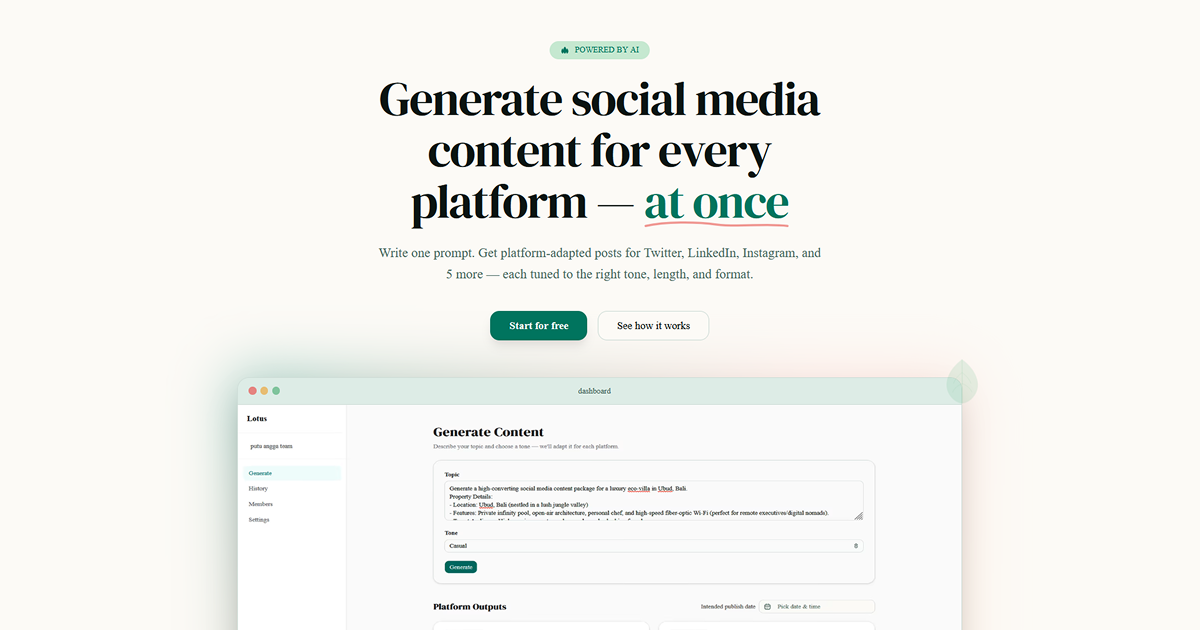
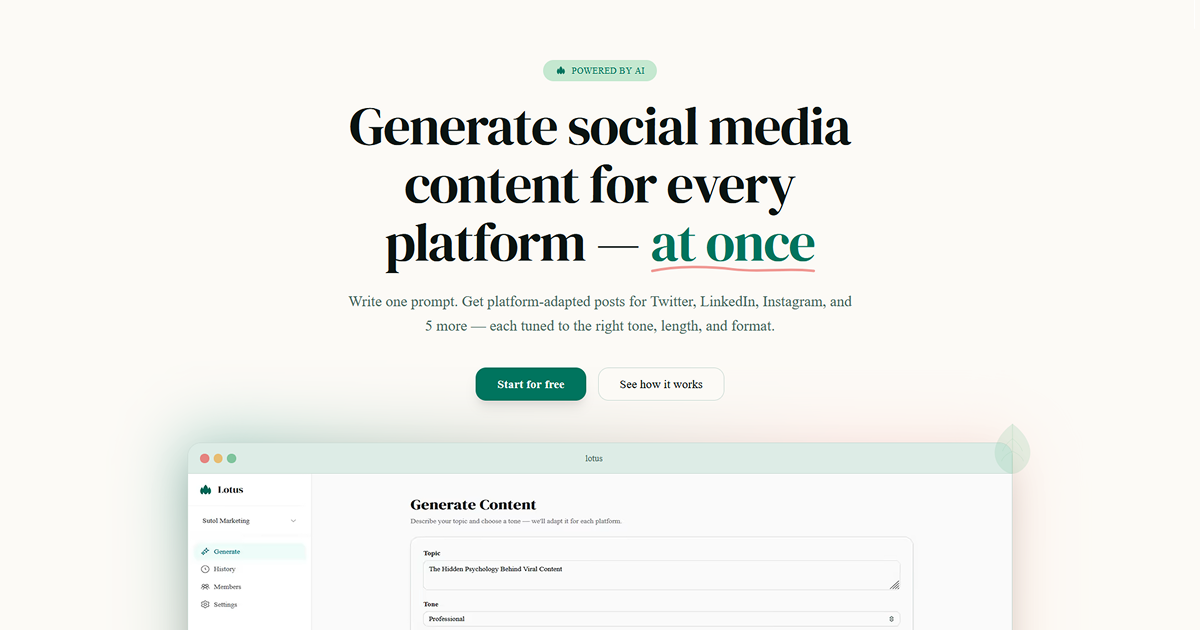
style(images): Update images

diff --git a/src/components/bento-feature-grid.tsx b/src/components/bento-feature-grid.tsx
@@ -14,7 +14,7 @@ const cards = [
     label: "Product screenshot — multi-platform dashboard",
     span: "md:col-span-7",
     imageHeight: 280,
-    image: "images/Multi-Platform Generation.avif",
+    image: "images/Lotus Outputs Snapshot.avif",
   },
   {
     title: "Brand Settings",
@@ -25,7 +25,7 @@ const cards = [
     label: "Product screenshot — brand settings",
     span: "md:col-span-5",
     imageHeight: 220,
-    image: "images/Brand Settings.avif",
+    image: "images/Lotus Brand Settings Snapshot.avif",
   },
   {
     title: "Team Collaboration",
@@ -36,7 +36,7 @@ const cards = [
     label: "Product screenshot — team workspace",
     span: "md:col-span-5",
     imageHeight: 220,
-    image: "images/Team Collaboration.avif",
+    image: "images/Lotus Team Members Snapshot.avif",
   },
   {
     title: "Generation History",
@@ -47,7 +47,7 @@ const cards = [
     label: "Product screenshot — generation history",
     span: "md:col-span-7",
     imageHeight: 220,
-    image: "images/Generation History.avif",
+    image: "images/Lotus History Snapshot.avif",
   },
 ];
 

diff --git a/src/components/how-it-works-stepper.tsx b/src/components/how-it-works-stepper.tsx
@@ -11,7 +11,7 @@ const steps = [
       "Describe your topic and choose a tone. One input is all it takes.",
     accent: "var(--primary)",
     accentSoft: "var(--secondary)",
-    image: "/images/Write Prompt.avif",
+    image: "/images/Lotus Prompt Snapshot.avif",
     alt: "Product screenshot — prompt input",
   },
   {
@@ -21,7 +21,7 @@ const steps = [
       "Your message is reshaped for every platform's tone, length, and format conventions.",
     accent: "var(--coral)",
     accentSoft: "var(--coral-soft)",
-    image: "/images/platforms output.avif",
+    image: "/images/Lotus Outputs Snapshot.avif",
     alt: "Product screenshot — AI generation",
   },
   {
@@ -31,7 +31,7 @@ const steps = [
       "Review each output, make edits, and record your intended publish date.",
     accent: "var(--amber)",
     accentSoft: "var(--amber-soft)",
-    image: "/images/Set Calendar.avif",
+    image: "/images/Lotus Publish Date Snapshot.avif",
     alt: "Product screenshot — output review",
   },
 ];

diff --git a/src/components/hero-section.tsx b/src/components/hero-section.tsx
@@ -415,15 +415,16 @@ export function HeroSection() {
                   className="flex-1 text-center text-xs font-medium"
                   style={{ color: "var(--muted-foreground)" }}
                 >
-                  dashboard
+                  lotus
                 </div>
                 <div className="w-16" />
               </div>
               <img
-                src={"images/ai content generator dashboard.avif"}
+                src={"images/Lotus Hero Snapshot.avif"}
                 className="w-full aspect-[16/9] min-h-[300px] sm:min-h-[400px] lg:min-h-[520px]"
                 width={1100}
                 height={620}
+                alt="Lotus Hero Snapshot"
               />
             </div>
 

diff --git a/src/components/feature-showcase.tsx b/src/components/feature-showcase.tsx
@@ -141,7 +141,7 @@ function BrowserFrame({ children }: { children: React.ReactNode }) {
         </div>
         <div className="flex-1 flex justify-center">
           <div className="px-4 py-1 rounded-md bg-muted/60 text-xs text-muted-foreground/60 max-w-xs w-full text-center">
-            dashboard
+            lotus
           </div>
         </div>
         <div className="w-9" />
@@ -255,7 +255,7 @@ export function FeatureShowcase() {
           <motion.div variants={imageItemVariants}>
             <BrowserFrame>
               <img
-                src={"/images/prompt and outputs.avif"}
+                src={"/images/Lotus Generate Snapshot.avif"}
                 alt="Product screenshot — AI content generation dashboard"
                 className="w-full aspect-16/10"
               />

diff --git a/src/components/comparison-section.tsx b/src/components/comparison-section.tsx
@@ -245,7 +245,7 @@ export function ComparisonSection() {
               <img
                 alt="Lotus dashboard — all platforms"
                 className="rounded-xl w-full aspect-[16/9]"
-                src={"/images/prompt and outputs.avif"}
+                src={"/images/Lotus Generate Snapshot.avif"}
               />
 
               <div className="mt-4 flex items-center gap-3">

diff --git a/src/pages/_app.tsx b/src/pages/_app.tsx
@@ -9,7 +9,7 @@ import { createSyncStoragePersister } from "@tanstack/query-sync-storage-persist
 import { DM_Serif_Display, Plus_Jakarta_Sans } from "next/font/google";
 import { GoogleTagManager } from "@next/third-parties/google";
 
-const APP_TITLE = "Lotus — AI Content Generator for Social Media";
+const APP_TITLE = "Lotus | AI Content Generator for Social Media";
 const APP_DESCRIPTION =
   "Generate platform-adapted social media content from a single prompt. AI-powered posts for Instagram, TikTok, LinkedIn, Twitter, and more.";
 const OG_IMAGE = `${process.env.NEXT_PUBLIC_APP_URL}/opengraph-image.png`;

diff --git a/README.md b/README.md
@@ -6,13 +6,15 @@ A fullstack SaaS application that generates platform-adapted social media conten
 
 **[Live Demo →](https://lotus.putuangga.com/)**
 
-![Lotus Dashboard](/public/images/ai%20content%20generator%20dashboard.avif) 
+![Lotus Landing Page](/public/images/Lotus%20Hero%20Snapshot.avif)
 
 ---
 
 ## Features
 
 ### Content Generation
+
+![Lotus Content Generation](/public/images/lotus%20Generate%20Snapshot.avif)
 
 - **Multi-platform generation** — produces posts for Twitter/X, LinkedIn, Instagram, Facebook, TikTok, YouTube, Threads, and Pinterest from a single topic
 - **Real-time streaming** — results stream back via Server-Sent Events as each platform completes, not all-at-once
@@ -22,17 +24,23 @@ A fullstack SaaS application that generates platform-adapted social media conten
 
 ### Team Collaboration
 
+![Lotus Team Member](/public/images/lotus%20Team%20Members%20Snapshot.avif)
+
 - **Organization-based teams** — create a team, invite members via email, manage roles (Owner, Admin, Member)
 - **Shared brand settings** — team-level brand voice, default tone, active platforms, and AI model selection
 - **Slug-based workspaces** — each team gets a URL-friendly slug (e.g., `/acme-corp`)
 
 ### Authentication & Security
 
+![Lotus Auth OTP](/public/images/lotus%20auth%20Otp%20snapshot.avif)
+
 - **Email verification** via 6-digit OTP with rate limiting, cooldown, and expiry
 - **Disposable email blocking** — prevents spam registrations with a domain blocklist
 - **Role-based access** — admin-only actions for settings, member management, and invitations
 
 ### Blog (Strapi CMS)
+
+![Lotus Blog](/public/images/lotus%20blog%20snapshot.avif)
 
 - **Headless CMS** — blog powered by Strapi v5 with Articles and Categories content types
 - **ISR with 60s revalidation** — statically generated listing and detail pages, revalidated incrementally
@@ -43,6 +51,8 @@ A fullstack SaaS application that generates platform-adapted social media conten
 
 ### AI Credit System
 
+![Lotus AI Credits System](/public/images/lotus%20ai%20credits%20snapshot.avif)
+
 - **Pay-per-use credits** — 1 credit = 1 platform output (generating across 5 platforms costs 5 credits)
 - **25 free starter credits** — automatically granted when a team is created
 - **FIFO consumption** — oldest credits are used first across batches
@@ -52,6 +62,8 @@ A fullstack SaaS application that generates platform-adapted social media conten
 - **Transaction history** — full audit trail with balance-before/balance-after for every event (top-ups, generations, regenerations, batch expirations)
 
 ### Billing & Payments (Stripe)
+
+![Lotus Auth OTP](/public/images/lotus%20stripe%20snapshot.avif)
 
 - **One-time payments** via Stripe Checkout (not subscriptions) — users buy credit packages as needed
 - **Stripe Checkout Sessions** — server-side session creation with team metadata for reconciliation
@@ -81,31 +93,31 @@ A fullstack SaaS application that generates platform-adapted social media conten
 
 ## Tech Stack
 
-| Category | Technology |
-|---|---|
-| **Framework** | Next.js 16 (Pages Router), React 19, TypeScript |
-| **Styling** | Tailwind CSS v4, shadcn/ui (radix-nova), HugeIcons, Motion (Framer Motion) |
-| **CMS** | Strapi v5 (Headless CMS) — blog articles and categories |
-| **Auth** | Better Auth with organization plugin — custom OTP flow on top |
-| **Database** | Neon (serverless Postgres) |
-| **ORM** | Drizzle ORM (PostgreSQL) |
-| **AI Provider** | OpenRouter — Google Gemini, OpenAI GPT-4.1, Anthropic Claude (model configurable per team) |
-| **Email** | Resend + React Email (OTP codes, team invitations) |
-| **Payments** | Stripe (Checkout Sessions, Webhooks) |
-| **State Management** | TanStack Query v5 (known as React Query) with localStorage persistence |
-| **Notifications** | Sonner |
-| **Testing** | Vitest + Testing Library + jsdom |
-| **Deployment** | Vercel |
+| Category             | Technology                                                                                 |
+| -------------------- | ------------------------------------------------------------------------------------------ |
+| **Framework**        | Next.js 16 (Pages Router), React 19, TypeScript                                            |
+| **Styling**          | Tailwind CSS v4, shadcn/ui (radix-nova), HugeIcons, Motion (Framer Motion)                 |
+| **CMS**              | Strapi v5 (Headless CMS) — blog articles and categories                                    |
+| **Auth**             | Better Auth with organization plugin — custom OTP flow on top                              |
+| **Database**         | Neon (serverless Postgres)                                                                 |
+| **ORM**              | Drizzle ORM (PostgreSQL)                                                                   |
+| **AI Provider**      | OpenRouter — Google Gemini, OpenAI GPT-4.1, Anthropic Claude (model configurable per team) |
+| **Email**            | Resend + React Email (OTP codes, team invitations)                                         |
+| **Payments**         | Stripe (Checkout Sessions, Webhooks)                                                       |
+| **State Management** | TanStack Query v5 (known as React Query) with localStorage persistence                     |
+| **Notifications**    | Sonner                                                                                     |
+| **Testing**          | Vitest + Testing Library + jsdom                                                           |
+| **Deployment**       | Vercel                                                                                     |
 
 ---
 
 ## Supported AI Models
 
-| Provider | Model |
-|---|---|
-| Google | Gemini 2.5 Flash *(default)*, Gemini 2.0 Flash |
-| OpenAI | GPT-4.1 Mini, GPT-4.1 Nano |
-| Anthropic | Claude 3.5 Haiku, Claude 3 Haiku |
+| Provider  | Model                                          |
+| --------- | ---------------------------------------------- |
+| Google    | Gemini 2.5 Flash _(default)_, Gemini 2.0 Flash |
+| OpenAI    | GPT-4.1 Mini, GPT-4.1 Nano                     |
+| Anthropic | Claude 3.5 Haiku, Claude 3 Haiku               |
 
 Teams can switch models from Brand Settings without any code changes.
 
@@ -113,11 +125,11 @@ Teams can switch models from Brand Settings without any code changes.
 
 ## Credit Pricing
 
-| Package | Credits | Price | Per-Credit Cost |
-|---------|---------|-------|-----------------|
-| **Starter** | 100 | $5 | $0.050 |
-| **Growth** | 500 | $20 | $0.040 |
-| **Pro** | 2,000 | $60 | $0.030 |
+| Package     | Credits | Price | Per-Credit Cost |
+| ----------- | ------- | ----- | --------------- |
+| **Starter** | 100     | $5    | $0.050          |
+| **Growth**  | 500     | $20   | $0.040          |
+| **Pro**     | 2,000   | $60   | $0.030          |
 
 All teams start with 25 free credits. Credits expire 12 months from the batch creation date.
 
@@ -129,21 +141,21 @@ See [SETUP-GUIDELINES.md](SETUP-GUIDELINES.md) for local development setup, envi
 
 ### Blog Environment Variables
 
-| Variable | Description |
-|---|---|
-| `STRAPI_URL` | Base URL of the Strapi v5 instance (server-side). Default: `http://localhost:1337` |
-| `STRAPI_API_TOKEN` | Read-only API token for Strapi authentication (server-side) |
-| `NEXT_PUBLIC_STRAPI_URL` | Public URL for resolving cover image paths in the browser |
+| Variable                 | Description                                                                        |
+| ------------------------ | ---------------------------------------------------------------------------------- |
+| `STRAPI_URL`             | Base URL of the Strapi v5 instance (server-side). Default: `http://localhost:1337` |
+| `STRAPI_API_TOKEN`       | Read-only API token for Strapi authentication (server-side)                        |
+| `NEXT_PUBLIC_STRAPI_URL` | Public URL for resolving cover image paths in the browser                          |
 
 ### Stripe & Credit System Environment Variables
 
-| Variable | Description |
-|---|---|
-| `STRIPE_SECRET_KEY` | Stripe API secret key (server-side) |
+| Variable                | Description                                                |
+| ----------------------- | ---------------------------------------------------------- |
+| `STRIPE_SECRET_KEY`     | Stripe API secret key (server-side)                        |
 | `STRIPE_WEBHOOK_SECRET` | Webhook endpoint signing secret for signature verification |
-| `STRIPE_PRICE_STARTER` | Stripe Price ID for the Starter package (100 credits) |
-| `STRIPE_PRICE_GROWTH` | Stripe Price ID for the Growth package (500 credits) |
-| `STRIPE_PRICE_PRO` | Stripe Price ID for the Pro package (2,000 credits) |
+| `STRIPE_PRICE_STARTER`  | Stripe Price ID for the Starter package (100 credits)      |
+| `STRIPE_PRICE_GROWTH`   | Stripe Price ID for the Growth package (500 credits)       |
+| `STRIPE_PRICE_PRO`      | Stripe Price ID for the Pro package (2,000 credits)        |
 
 ## License
 